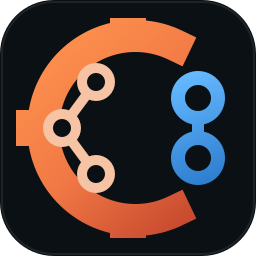
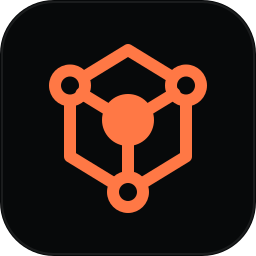
Release Graphoxide 0.4.5

diff --git a/THIRD_PARTY_LICENSES.html b/THIRD_PARTY_LICENSES.html
@@ -4970,14 +4970,14 @@ limitations under the License.
       <h3 id="Apache-2.0">Apache License 2.0</h3>
       <p>Used by:</p>
       <ul>
-        <li><a href="https://crates.io/crates/graphoxide-cli">graphoxide-cli 0.4.4</a></li>
-        <li><a href="https://crates.io/crates/graphoxide-core">graphoxide-core 0.4.4</a></li>
-        <li><a href="https://crates.io/crates/graphoxide-export">graphoxide-export 0.4.4</a></li>
-        <li><a href="https://crates.io/crates/graphoxide-extract">graphoxide-extract 0.4.4</a></li>
-        <li><a href="https://crates.io/crates/graphoxide-graph">graphoxide-graph 0.4.4</a></li>
-        <li><a href="https://crates.io/crates/graphoxide-mcp">graphoxide-mcp 0.4.4</a></li>
-        <li><a href="https://crates.io/crates/graphoxide-query">graphoxide-query 0.4.4</a></li>
-        <li><a href="https://crates.io/crates/graphoxide-skillgen">graphoxide-skillgen 0.4.4</a></li>
+        <li><a href="https://crates.io/crates/graphoxide-cli">graphoxide-cli 0.4.5</a></li>
+        <li><a href="https://crates.io/crates/graphoxide-core">graphoxide-core 0.4.5</a></li>
+        <li><a href="https://crates.io/crates/graphoxide-export">graphoxide-export 0.4.5</a></li>
+        <li><a href="https://crates.io/crates/graphoxide-extract">graphoxide-extract 0.4.5</a></li>
+        <li><a href="https://crates.io/crates/graphoxide-graph">graphoxide-graph 0.4.5</a></li>
+        <li><a href="https://crates.io/crates/graphoxide-mcp">graphoxide-mcp 0.4.5</a></li>
+        <li><a href="https://crates.io/crates/graphoxide-query">graphoxide-query 0.4.5</a></li>
+        <li><a href="https://crates.io/crates/graphoxide-skillgen">graphoxide-skillgen 0.4.5</a></li>
         <li><a href="https://github.com/nical/android_system_properties">android_system_properties 0.1.5</a></li>
         <li><a href="https://github.com/dtolnay/anyhow">anyhow 1.0.104</a></li>
         <li><a href="https://github.com/dtolnay/async-trait">async-trait 0.1.91</a></li>

diff --git a/README.md b/README.md
@@ -246,7 +246,7 @@ workflows, managed graph freshness, report/export commands, and MCP integration.
 Install the packaged extension for your platform from this checkout, for example:
 
 ```bash
-code --install-extension editors/vscode/graphoxide-vscode-darwin-arm64-0.4.4.vsix
+code --install-extension editors/vscode/graphoxide-vscode-darwin-arm64-0.4.5.vsix
 ```
 
 Then open a repository and accept the first-open **Enable Graphoxide** prompt.

diff --git a/editors/vscode/CHANGELOG.md b/editors/vscode/CHANGELOG.md
@@ -1,5 +1,10 @@
 # Changelog
 
+## 0.4.5 — 2026-08-04
+
+- Replaced the Marketplace icon with the web’s orange Graphoxide graph-cube mark
+  and added clear gallery-safe padding around it.
+
 ## 0.4.4 — 2026-08-04
 
 - Added a new Graphoxide identity across the Marketplace icon, activity bar, and
